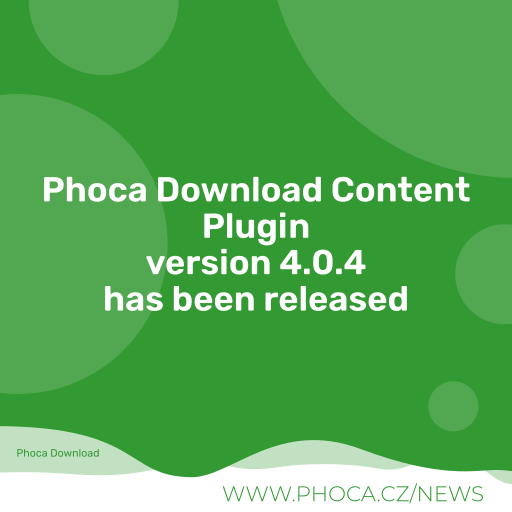
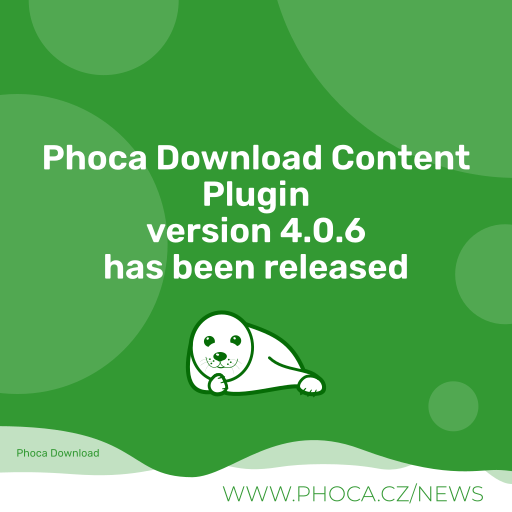
4.0.6

Changed region(s): [[0.0625, 0.2812, 0.9375, 0.7812]]

diff --git a/phocadownload.php b/phocadownload.php
@@ -14,6 +14,7 @@ use Joomla\CMS\Component\ComponentHelper;
 use Joomla\CMS\Factory;
 use Joomla\CMS\HTML\HTMLHelper;
 use Joomla\CMS\Language\Text;
+use Joomla\CMS\Layout\FileLayout;
 use Joomla\CMS\Router\Route;
 
 
@@ -66,7 +67,7 @@ class plgContentPhocaDownload extends JPlugin
 		$component		= 'com_phocadownload';
 		$paramsC		= ComponentHelper::getParams($component) ;
 		$ordering		= $paramsC->get( 'file_ordering', 1 );
-		$display_bootstrap3_layout		= $paramsC->get( 'display_bootstrap3_layout', 0 );
+		//$display_bootstrap3_layout		= $paramsC->get( 'display_bootstrap3_layout', 0 );
 
         $lang = Factory::getLanguage();
         //$lang->load('com_phocadownload.sys');
@@ -502,31 +503,46 @@ class plgContentPhocaDownload extends JPlugin
 									$windowHeightPl 			= (int)$playerheight + 30;
 									$windowHeightPlMP3 			= (int)$playerheightmp3 + 30;
 									//$playWindow 	= $paramsC->get( 'play_popup_window', 0 );
+
+									$dataType = 'play';
+									$fileExt = PhocaDownloadFile::getExtension($item->filename_play);
+
+									if ($fileExt == 'mp3' || $fileExt == 'ogg') {
+										$dataType = "play-thin";
+									}
+
+
 									if ($playWindow == 1) {
 										$buttonPl = new stdClass();
-										$buttonPl->set('methodname', 'js-button');
-										$buttonPl->set('options', "window.open(this.href,'win2','width=".$windowWidthPl.",height=".$windowHeightPl.",scrollbars=yes,menubar=no,resizable=yes'); return false;");
-										$buttonPl->set('optionsmp3', "window.open(this.href,'win2','width=".$windowWidthPl.",height=".$windowHeightPlMP3.",scrollbars=yes,menubar=no,resizable=yes'); return false;");
+										$buttonPl->methodname = 'js-button';
+										$buttonPl->options = "window.open(this.href,'win2','width=".$windowWidthPl.",height=".$windowHeightPl.",scrollbars=yes,menubar=no,resizable=yes'); return false;";
+										$buttonPl->optionsmp3 = "window.open(this.href,'win2','width=".$windowWidthPl.",height=".$windowHeightPlMP3.",scrollbars=yes,menubar=no,resizable=yes'); return false;";
 									} else {
 
-										if ($display_bootstrap3_layout > 0) {
+										//if ($display_bootstrap3_layout > 0) {
 
 											// BOOTSTRAP
 											$buttonPl = new stdClass();
-											$buttonPl->set('name', 'image');
-											$buttonPl->set('modal', true);
-											$buttonPl->set('methodname', 'modal-button');
-											$buttonPl->set('options', ' data-type="document" data-width-dialog="'.$windowWidthPl.'" data-height-dialog="'.$windowHeightPl.'"');
-											$buttonPl->set('optionsmp3', ' data-type="document" data-width-dialog="'.$windowWidthPl.'" data-height-dialog="'.($windowHeightPlMP3 + 50) .'"');
-											$buttonPl->set('optionsimg', 'data-type="image"');
-											$bootstrapModal = PhocaDownloadRenderFront::bootstrapModalHtml('phModalPlay' , Text::_('COM_PHOCADOWNLOAD_PLAY'));
+											$buttonPl->name =  'image';
+											$buttonPl->modal = true;
+											$buttonPl->smethodname = 'modal-button';
+											$buttonPl->options =' data-bs-type="document" data-bs-width-dialog="'.$windowWidthPl.'" data-bs-height-dialog="'.$windowHeightPl.'"';
+											$buttonPl->optionsmp3 = ' data-bs-type="document" data-bs-width-dialog="'.$windowWidthPl.'" data-bs-height-dialog="'.($windowHeightPlMP3 + 50) .'"';
+											$buttonPl->optionsimg = 'data-bs-type="image"';
+											//$bootstrapModal = PhocaDownloadRenderFront::bootstrapModalHtml('phModalPlay' , Text::_('COM_PHOCADOWNLOAD_PLAY'));
 
 											if ($renderedBootstrapModal == 0) {
-												PhocaDownloadRenderFront::renderBootstrapModalJs('.pd-modal-button');
+												PhocaDownloadRenderFront::renderMainJs();
+												//PhocaDownloadRenderFront::renderBootstrapModalJs('.pd-modal-button');
+
+												$layoutCM 	= new FileLayout('category_modal', null, array('component' => 'com_phocadownload'));
+												$d          = [];
+												$d['t']     = [];
+												$bootstrapModal = $layoutCM->render($d);
 												$renderedBootstrapModal = 1;
 											}
 
-										} else {
+										/*} else {
 											HTMLHelper::_('behavior.modal', 'a.modal-button');
 											$document->addCustomTag( "<style type=\"text/css\"> \n"
 										." #sbox-window.phocadownloadplaywindow   {background-color:#fff;padding:2px} \n"
@@ -539,7 +555,7 @@ class plgContentPhocaDownload extends JPlugin
 											$buttonPl->set('options', "{handler: 'iframe', size: {x: ".$windowWidthPl.", y: ".$windowHeightPl."}, overlayOpacity: 0.7, classWindow: 'phocadownloadplaywindow', classOverlay: 'phocadownloadplayoverlay'}");
 											$buttonPl->set('optionsmp3', "{handler: 'iframe', size: {x: ".$windowWidthPl.", y: ".$windowHeightPlMP3."}, overlayOpacity: 0.7, classWindow: 'phocadownloadplaywindow', classOverlay: 'phocadownloadplayoverlay'}");
 
-										}
+										}*/
 									}
 									// - - - - - - - - - - - - - - -
 
@@ -585,15 +601,21 @@ class plgContentPhocaDownload extends JPlugin
 												$output .= '<a  href="'.$playLink.'" onclick="'. $buttonPlOptions.'" >'. $textOutput.'</a>';
 											} else {
 
-												if ($display_bootstrap3_layout > 0) {
+												//if ($display_bootstrap3_layout > 0) {
 													// Bootstrap
-													$output .= '<a class="pd-modal-button" data-toggle="modal" data-target="#phModalPlay" href="#" data-href="' . $playLink . '" ' . $buttonPlOptions . ' >'. $textOutput.'</a>';
+						//$output .= '<a class="pd-modal-button" data-bs-toggle="modal" data-bs-target="#phModalPlay" href="#" data-bs-href="' . $playLink . '" ' . $buttonPlOptions . ' >'. $textOutput.'</a>';
+						// Bootstrap
+						//$output .= '<a class="pd-bs-modal-button" data-bs-toggle="modal" data-bs-target="#phModalPlay" data-type="'.$dataType.'" href="'.$playLink.'" ' . $buttonPlOptions . ' >'. $textOutput.'</a>';
+						// Bootstrap per main.js
+						$output .= '<a class="pd-bs-modal-button" data-type="'.$dataType.'" href="'.$playLink.'" ' . $buttonPlOptions . ' >'. $textOutput.'</a>';
+
+
 													if (isset($bootstrapModal) && $bootstrapModal != '') {
 														$output .= $bootstrapModal;
 													}
-												} else {
+												/*} else {
 													$output .= '<a class="modal-button" href="'.$playLink.'" rel="'. $buttonPlOptions.'" >'. $textOutput.'</a>';
-												}
+												}*/
 
 											}
 											$output .= '</div></div>';
@@ -617,25 +639,40 @@ class plgContentPhocaDownload extends JPlugin
 											$previewLink = $filePath . $item->filename_preview;
 											//$previewWindow 	= $paramsC->get( 'preview_popup_window', 0 );
 
+
+
 											// PREVIEW - - - - - - - - - - - -
 											$windowWidthPr 	= (int)$previewwidth + 20;
 											$windowHeightPr = (int)$previewheight + 20;
 											if ($previewWindow == 1) {
 												$buttonPr = new stdClass();
-												$buttonPr->set('methodname', 'js-button');
-												$buttonPr->set('options', "window.open(this.href,'win2','width=".$windowWidthPr.",height=".$windowHeightPr.",scrollbars=yes,menubar=no,resizable=yes'); return false;");
+												$buttonPr->methodname = 'js-button';
+												$buttonPr->options = "window.open(this.href,'win2','width=".$windowWidthPr.",height=".$windowHeightPr.",scrollbars=yes,menubar=no,resizable=yes'); return false;";
 											} else {
-												HTMLHelper::_('behavior.modal', 'a.modal-button');
+												//HTMLHelper::_('behavior.modal', 'a.modal-button');
+
+
+												if ($renderedBootstrapModal == 0) {
+													PhocaDownloadRenderFront::renderMainJs();
+													//PhocaDownloadRenderFront::renderBootstrapModalJs('.pd-modal-button');
+
+													$layoutCM 	= new FileLayout('category_modal', null, array('component' => 'com_phocadownload'));
+													$d          = [];
+													$d['t']     = [];
+													$bootstrapModal = $layoutCM->render($d);
+													$renderedBootstrapModal = 1;
+												}
+
 												$document->addCustomTag( "<style type=\"text/css\"> \n"
 											." #sbox-window.phocadownloadpreviewwindow   {background-color:#fff;padding:2px} \n"
 											." #sbox-overlay.phocadownloadpreviewoverlay  {background-color:#000;} \n"
 											." </style> \n");
 												$buttonPr = new stdClass();
-												$buttonPr->set('name', 'image');
-												$buttonPr->set('modal', true);
-												$buttonPr->set('methodname', 'modal-button');
-												$buttonPr->set('options', "{handler: 'iframe', size: {x: ".$windowWidthPr.", y: ".$windowHeightPr."}, overlayOpacity: 0.7, classWindow: 'phocadownloadpreviewwindow', classOverlay: 'phocadownloadpreviewoverlay'}");
-												$buttonPr->set('optionsimg', "{handler: 'image', size: {x: 200, y: 150}, overlayOpacity: 0.7, classWindow: 'phocadownloadpreviewwindow', classOverlay: 'phocadownloadpreviewoverlay'}");
+												$buttonPr->name = 'image';
+												$buttonPr->modal = true;
+												$buttonPr->methodname = 'modal-button';
+												$buttonPr->options = "{handler: 'iframe', size: {x: ".$windowWidthPr.", y: ".$windowHeightPr."}, overlayOpacity: 0.7, classWindow: 'phocadownloadpreviewwindow', classOverlay: 'phocadownloadpreviewoverlay'}";
+												$buttonPr->optionsimg = "{handler: 'image', size: {x: 200, y: 150}, overlayOpacity: 0.7, classWindow: 'phocadownloadpreviewwindow', classOverlay: 'phocadownloadpreviewoverlay'}";
 											}
 											// - - - - - - - - - - - - - - -
 
@@ -662,11 +699,15 @@ class plgContentPhocaDownload extends JPlugin
 												$output .= '<a  href="'.$previewLink.'" onclick="'. $buttonPr->options.'" >'. $text.'</a>';
 											} else {
 												if ($fileExt == 'pdf') {
+													$dataType = "document";
 													// Iframe - modal
-													$output	.= '<a class="modal-button" href="'.$previewLink.'" rel="'. $buttonPr->options.'" >'. $textOutput.'</a>';
+													//$output	.= '<a class="modal-button" href="'.$previewLink.'" rel="'. $buttonPr->options.'" >'. $textOutput.'</a>';
+													$output .= '<a class="pd-bs-modal-button" data-type="'.$dataType.'" href="'.$previewLink.'" ' . $buttonPr->options . ' >'. $textOutput.'</a>';
 												} else {
+													$dataType = "image";
 													// Image - modal
-													$output	.= '<a class="modal-button" href="'.$previewLink.'" rel="'. $buttonPr->optionsimg.'" >'. $textOutput.'</a>';
+													//$output	.= '<a class="modal-button" href="'.$previewLink.'" rel="'. $buttonPr->optionsimg.'" >'. $textOutput.'</a>';
+													$output .= '<a class="pd-bs-modal-button" data-type="'.$dataType.'" href="'.$previewLink.'" ' . $buttonPr->optionsimg . ' >'. $textOutput.'</a>';
 												}
 											}
 											$output	.= '</div></div>';

diff --git a/README.MD b/README.MD
@@ -65,7 +65,7 @@ Phoca Download Content plugin is a Joomla! plugin which displays:
 
 ## Version (Joomla! 4.x)
 
-4.0.4
+4.0.6
 
 
 
